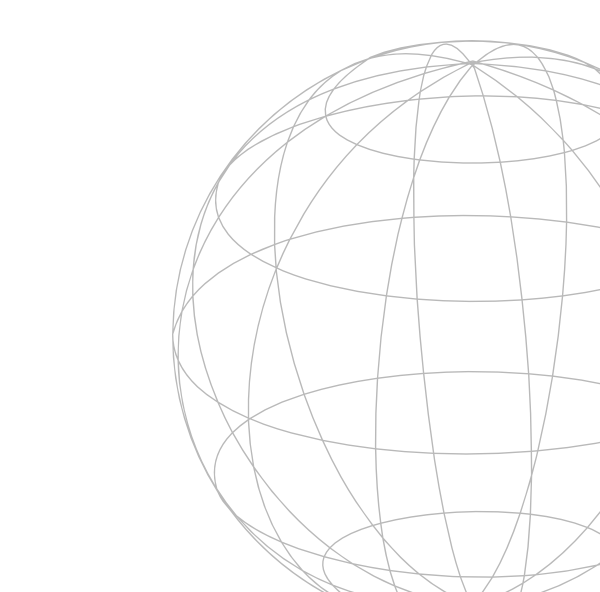
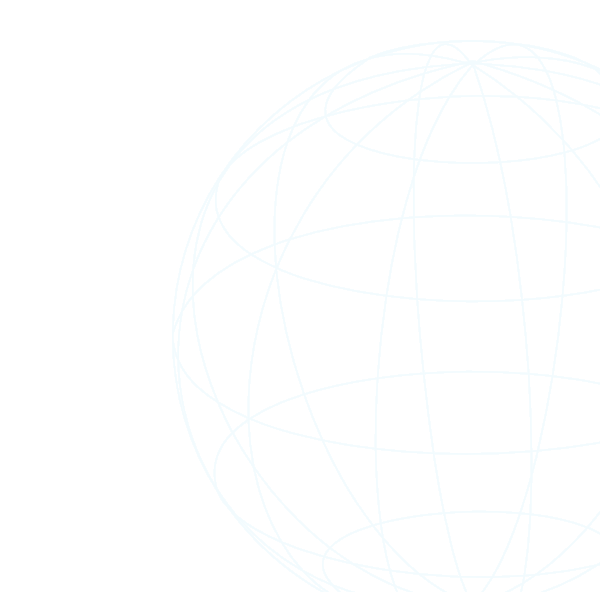
improved front page and about page

diff --git a/openhdi/templates/index.html b/openhdi/templates/index.html
@@ -4,6 +4,7 @@
   <py:def function="page_title">Home</py:def>
 
   <div py:def="content">
+
     <div class="row top">
       <div class="box">
         <div class="startquiz">
@@ -11,35 +12,37 @@
         <a href="${url_for('quiz')}" class="start_button">Start quiz</a>
         </div>
 
-      <div class="teaser">Help us construct a better index of human development
-        by telling us which indicators of development such as the Economy,
-        Equality, Health or Education you think are the most important for a
-        good life.</div>
+      <div class="teaser">What are the
+      most important things for human development?</div>
     </div>
-
-       <!--<div class="box">
-        <p>Find out how we calculate your personal development index!</p>
-        <img src="http://eutopia.guoxu.org/gfx/goal1_sm.gif" width="50" height="50" />
-        <img src="http://eutopia.guoxu.org/gfx/goal2_sm.gif" width="50" height="50" />
-        <img src="http://eutopia.guoxu.org/gfx/goal3_sm.gif" width="50" height="50" />
-        <img src="http://eutopia.guoxu.org/gfx/goal4_sm.gif" width="50" height="50" />
+      <div class="right">
+        Find out how does it Yourtopia works!
+        
+        <br /><br />
+        <img src="static/img/icons/economy.png" width="50" height="50" />
+        <img src="static/img/icons/education.png" width="50" height="50" />
+        <img src="static/img/icons/environ.png" width="50" height="50" />
         <br />
 
-        <img src="http://eutopia.guoxu.org/gfx/goal5_sm.gif" width="50" height="50" />
-        <img src="http://eutopia.guoxu.org/gfx/goal6_act.gif" width="50" height="50" />
-        <img src="http://eutopia.guoxu.org/gfx/goal7_sm.gif" width="50" height="50" />
-        <img src="http://eutopia.guoxu.org/gfx/goal8_sm.gif" width="50" height="50" />
-      </div>-->
-    </div>
+        <img src="static/img/icons/health.png" width="50" height="50" />
+        <img src="static/img/icons/inequality.png" width="50" height="50" />
+        <img src="static/img/icons/institutions.png" width="50" height="50" />
+        <br />
+        <img src="static/img/icons/governance.png" width="50" height="50" />
+        <img src="static/img/icons/security.png" width="50" height="50" />
+        <img src="static/img/icons/social_cap.png" width="50" height="50" />
 
-    <div class="row">
-      <div class="box idea">
-	<strong>The idea:</strong> Construct a measure of social 	progress world-wide based on your preferences for development. 	Participate in a global effort to improve public tracing of 	progress towards the Millennium Development Goals. 	<a href="${url_for('about')}">more &raquo;</a>.
       </div>
     </div>
-
+    <div class="row">
+      <div class="box idea">
+	<strong>The idea:</strong> Construct a measure of social progress world-wide based on your preferences for development. Participate in a global effort to improve public tracing of progress towards the Millennium Development Goals. 	<a href="${url_for('about')}">more &raquo;</a>.
+      </div>
+      
+<iframe src="http://www.facebook.com/widgets/like.php?href=http://eutopia.guoxu.org" scrolling="no" frameborder="0"
+        style="border:none; width:450px; height:80px"></iframe>
+    </div>
   </div>
-
   <xi:include href="layout.html" />
 </html>
 

diff --git a/openhdi/templates/about.html b/openhdi/templates/about.html
@@ -24,10 +24,7 @@
     but guide policymakers, and thirdly, non-GDP measures of development may fall short in the public's reception. 
     </p>
 
-	<p><strong>Our approach:</strong> This website circumvents the weighting-problem by letting users develop multivariate indices with individual-specific weighting of the composing indicators. Focusing on 8 dimensions captured using 24 variables, we use a preference based weighting scheme to create an individual measure of development: While standard measures arbitarily assign weights to different dimensions or simply average, our approach derives the weights based on 32 questions that seek to elicit a preference relation. Based on the survey (or "quiz"), we calculate an alternative index and tabulate the results vis-a-vis the conventional GDP per capita.</p>
-
-<p><strong>Our goal: </strong>We seek to analyse to what extend individualised voting can overcome the weighting problem. To make this study possible, each answer is stored anonymously and adds to our database of preference relations. Ideally, we hope that a stable weighting scheme will emerge as the number of observation increases (to a large N). While answering the quiz alone is fun enough, we hope to gather data through this project and generate a valuable contribution to the existing body of experimental literature on social indicators. </p> 
-
+	<p><strong>Our goal: </strong>We seek to analyse to what extend individualised voting can overcome the weighting problem. To make this study possible, each answer is stored anonymously and adds to our database of preference relations. Ideally, we hope that a stable weighting scheme will emerge as the number of observation increases (to a large N). While answering the quiz alone is fun enough, we hope to gather data through this project and generate a valuable contribution to the existing body of experimental literature on social indicators. </p>
 <p>Utmost effort has been put into making our "quiz" and measure as scientifically sound as possible. As for now, our dataset is confined to a 2008 cross-section of European countries but we will gradually include more countries and years. Please support our project by participating and asking your friends to join. </p>
 
 <p><strong>Behind this project: </strong> Guo Xu, Dirk Heine, Rufus Pollock, Friedrich Lindenberg and Hannes Bretschneider, OKFN.

diff --git a/openhdi/static/style.css b/openhdi/static/style.css
@@ -79,7 +79,7 @@ div#inline-notification button {
   ************************/
 
 a.start_button {
-    border: 1px solid #ccc;
+    border: 1px dashed #ccc;
     margin: 20px;
     padding: 6px 20px 6px;
     color: #333 !important;
@@ -102,6 +102,7 @@ a.start_button {
 }
 
 .teaser {
+	font-size: 13px;
     margin: 10px;
 }
 
@@ -116,25 +117,35 @@ a.start_button {
 .Home .row {
   clear: both;
   margin: auto;
+  width: 680px;
 }
 
 .Home .box {
   padding: 2%;
+  width: 650px;
 }
 
 .Home .top .box {
-  background: url("/static/img/wire_globe_transp.png") no-repeat top right;  
+  background-color: #e2e2e2;
   text-align: center;
   vertical-align: center;
-  height: 200px;
-  float: right;
-  border: solid 1px #990000;
-  border-radius: 12px;
+  height: 220px;
+  float: left;
+  width: 300px;
+  border: dashed 1px #999999;
+  /* border-radius: 12px; */
   margin-bottom: 20px;
 }
 
-.Home .top .left {
-  float: left;
+.Home .top .right {
+  float: right;
+  background-color: #f0f0f0;
+  border: dashed 1px #999999;
+  padding: 2%;
+  width: 280px;
+  height: 220px;
+  text-align: center;
+  margin-bottom: 20px;
 }
 
 .Home .startquiz {
@@ -144,15 +155,16 @@ a.start_button {
 
 .Home .startquiz h3 {
   font-weight: bold;
-  font-size: 40px;
+  font-size: 20px;
 }
 
 .Home .idea {
-  padding-top: 20px;
-  border-radius: 12px;
+  padding-top: 10px;
+  border: dashed 1px #999999;
+  /* border-radius: 12px; */
   margin-top: 20px;
   background-color: #D5DFFF;
-  text-align: center;
+  text-align: left;
 }
 
 
